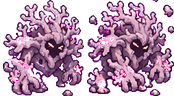
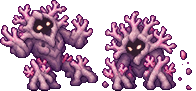
C5 P5: cboss_coral attack/hurt redrawn whole
Claude-Session: https://claude.ai/code/session_013g54opDJbSzBZ1hF4NWyGa

diff --git a/tools/slice_c5_p5.py b/tools/slice_c5_p5.py
@@ -353,6 +353,24 @@ def props_redraw():
     print("props redrawn")
 
 
+def coral():
+    """cboss_coral attack (4) + hurt (2) redrawn whole (the old swipe frames
+    were cut at the cell edges). Transparent render: no magenta key (the
+    coral itself is pink)."""
+    a = np.asarray(Image.open(os.path.join(S.INC, "c5/p5_cboss_coral.png")).convert("RGBA")).copy()
+    a[a[..., 3] <= 40] = 0
+    top = a.copy(); top[640:] = 0
+    bot = a.copy(); bot[:640] = 0
+    atk = _row_slots(top, 1, 4)[0]
+    hurt = _row_slots(bot, 1, 2)[0]
+    g = "enemies/cboss_coral"
+    f = float(S.manifest[g]["idle"]["cell_h"]) / atk[0].height
+    for nm, ims in [("attack", atk), ("hurt", hurt)]:
+        _rm(g, nm)
+        S.strip([_fit(im, f) for im in ims], g, nm)
+    print("cboss_coral")
+
+
 def poses():
     """Redraws of the cells Npc.BAD_CELLS used to hide (c5_08 #2)."""
     for src, sheet, names, ref in POSE_FIX:
@@ -489,7 +507,7 @@ def blobs(names=None):
             print(group, nm, "dropped", dropped, "size", im.size)
 
 
-STEPS = [wren_jr, rekey, blobs, bases, portraits, poses, w490_fix, sheep, tile_lines, crops_redraw, props_redraw]
+STEPS = [wren_jr, rekey, blobs, bases, portraits, poses, w490_fix, sheep, tile_lines, crops_redraw, props_redraw, coral]
 
 if __name__ == "__main__":
     mpath = os.path.join(S.OUT, "manifest.json")
